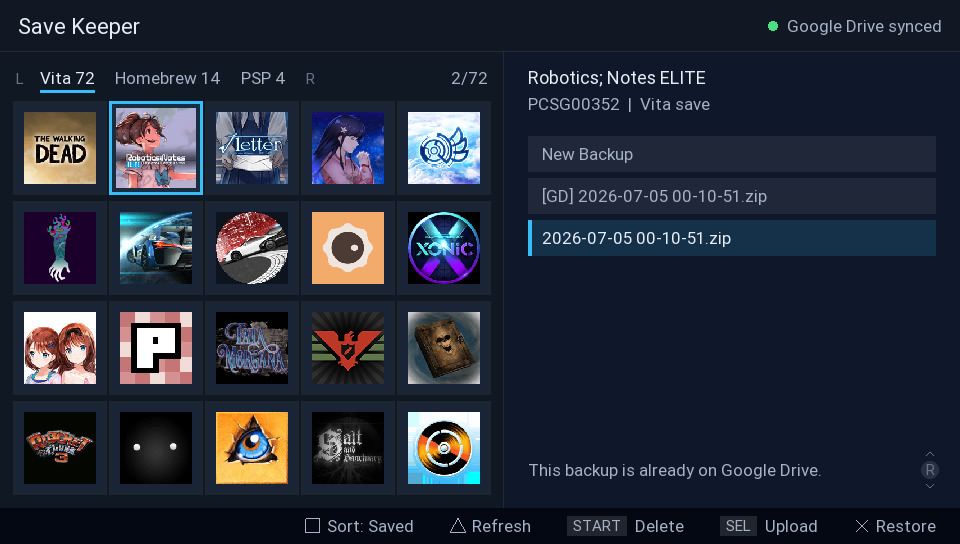
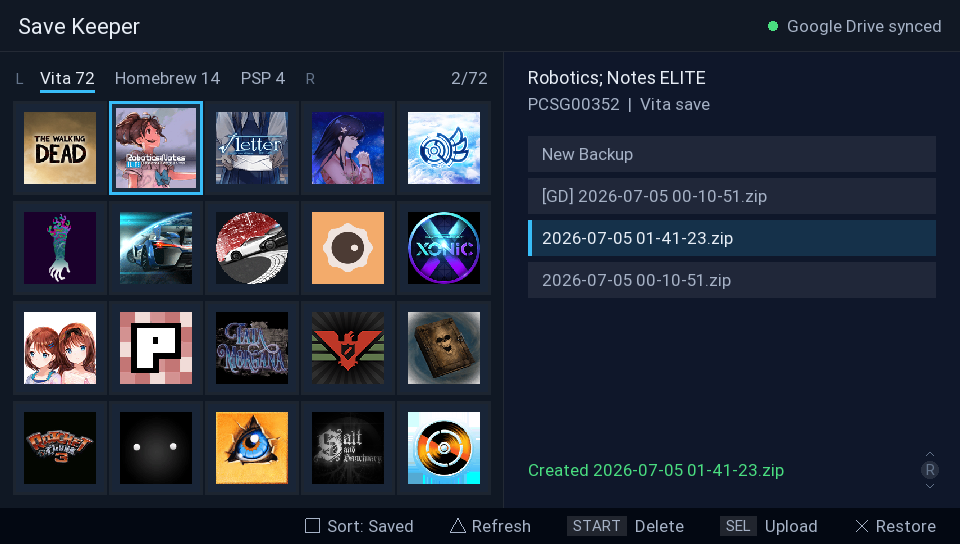
truncate right-pane text by measured pixel width, refresh readme hero screenshot
byte-count truncation capped latin titles at 30 characters while the pane fits far
more (and would overshoot for CJK); labels now shrink by whole codepoints until the
ellipsized text measures within the pane width

Changed region(s): [[0.5312, 0.8438, 0.8438, 0.875], [0.5625, 0.5, 0.7812, 0.5312], [0.6875, 0.4062, 0.7812, 0.4688]]

diff --git a/src/vita/ui/Ui.cpp b/src/vita/ui/Ui.cpp
@@ -326,6 +326,27 @@ int Ui::measure_text(unsigned int size, const char *text) const {
   return text_width(fonts_, size, text);
 }
 
+std::string Ui::fit_text(unsigned int size, const std::string &text, int max_width) const {
+  if (measure_text(size, text.c_str()) <= max_width) {
+    return text;
+  }
+  // Shrink whole UTF-8 codepoints until the ellipsized text fits the given pixel width; byte
+  // counts under-use the pane for Latin titles and over-use it for CJK ones.
+  std::string cut = text;
+  while (!cut.empty()) {
+    std::size_t last = cut.size() - 1;
+    while (last > 0 && (static_cast<unsigned char>(cut[last]) & 0xC0) == 0x80) {
+      --last;
+    }
+    cut.erase(last);
+    const std::string candidate = cut + "...";
+    if (measure_text(size, candidate.c_str()) <= max_width) {
+      return candidate;
+    }
+  }
+  return "...";
+}
+
 vita2d_texture *Ui::load_icon_texture(const std::string &path) {
   if (path.empty()) {
     return nullptr;
@@ -483,13 +504,14 @@ void Ui::draw_backup_panel(const UiState &state) {
     return;
   }
 
-  // Selected-save details live here, in one place, above its backup menu.
-  const std::string title = truncate_label(save->display_name, 30);
+  // Selected-save details live here, in one place, above its backup menu. Truncation is by
+  // measured pixel width so long titles use the full pane.
+  const std::string title = fit_text(kTextSizeNormal, save->display_name, 408);
   const char *platform_text = classify_save(*save) == SaveCategory::Homebrew
                                   ? "Homebrew"
                                   : platform_label(save->platform);
-  const std::string details =
-      truncate_label(title_id_label(*save) + "  |  " + platform_text + " save", 44);
+  const std::string details = fit_text(
+      kTextSizeSmall, title_id_label(*save) + "  |  " + platform_text + " save", 408);
   // Baseline 84 matches the tab row in the left pane so the top lines read as one row.
   draw_text(fonts_, 528, 84, kColorText, kTextSizeNormal, title.c_str());
   draw_text(fonts_, 528, 110, kColorMuted, kTextSizeSmall, details.c_str());
@@ -520,7 +542,7 @@ void Ui::draw_backup_panel(const UiState &state) {
       vita2d_draw_rectangle(528, y, 4, 36, kColorAccent);
     }
 
-    const std::string label = truncate_label(entries[i].display_name(), 42);
+    const std::string label = fit_text(kTextSizeSmall, entries[i].display_name(), 386);
     draw_text(fonts_, 542, y + 24, selected ? kColorText : kColorMuted,
               kTextSizeSmall, label.c_str());
     y += 42;
@@ -594,7 +616,7 @@ void Ui::draw_status_line(const UiState &state) {
   if (state.status_message.empty()) {
     return;
   }
-  const std::string status = truncate_label(state.status_message, 48);
+  const std::string status = fit_text(kTextSizeSmall, state.status_message, 380);
   unsigned int color = kColorMuted;
   if (state.restore_confirmation_pending || state.delete_confirmation_pending) {
     color = kColorAccent;

diff --git a/src/vita/ui/Ui.hpp b/src/vita/ui/Ui.hpp
@@ -77,6 +77,7 @@ private:
   void draw_status_line(const UiState &state);
   void draw_footer(const UiState &state);
   int measure_text(unsigned int size, const char *text) const;
+  std::string fit_text(unsigned int size, const std::string &text, int max_width) const;
   vita2d_texture *load_icon_texture(const std::string &path);
 
   FontSet fonts_;